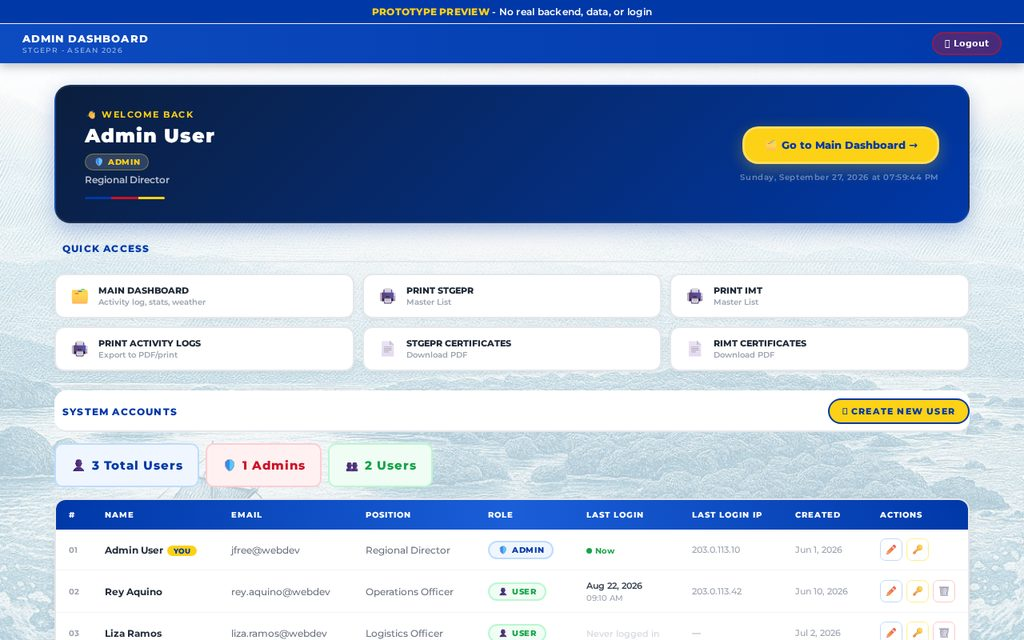
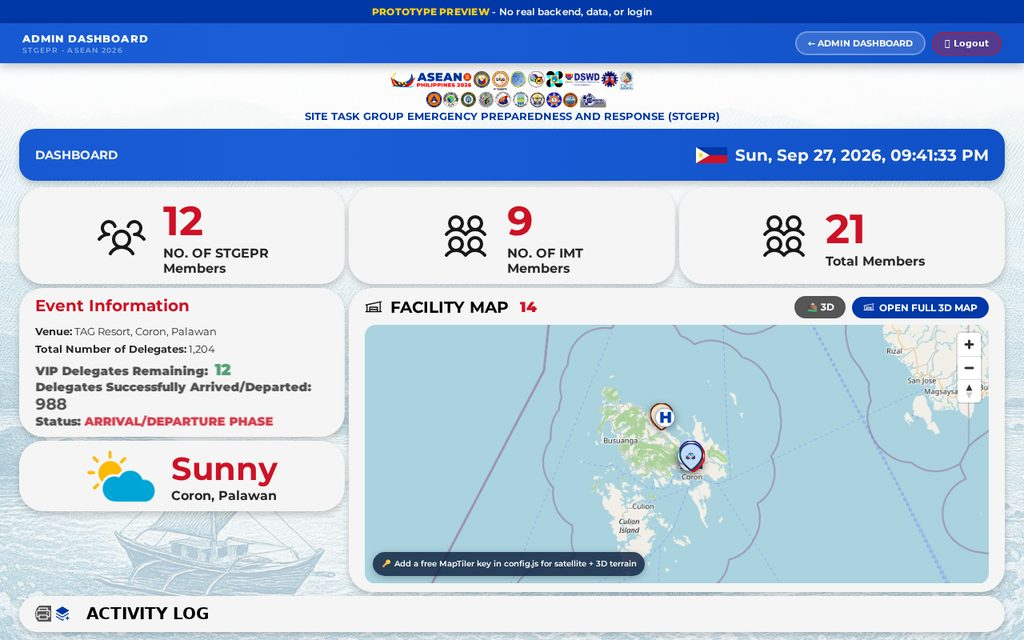
ui change

diff --git a/index.html b/index.html
@@ -404,20 +404,20 @@
     border-top: 1px solid var(--line); border-bottom: 1px solid var(--line);
     margin: 0 0 32px;
   }
+  /* 2 x 2 on mobile, one row of 4 from 640px. */
   .stat { padding: 20px 0; }
-  .stat:nth-child(2) { padding-left: 20px; border-left: 1px solid var(--line); }
-  .stat:nth-child(3) { grid-column: 1 / -1; border-top: 1px solid var(--line); }
+  .stat:nth-child(even) { padding-left: 20px; border-left: 1px solid var(--line); }
+  .stat:nth-child(n+3) { border-top: 1px solid var(--line); }
   .stat-num { display: block; font-size: 2.5rem; font-weight: 500; letter-spacing: -0.04em; line-height: 1.1; }
-  .stat-num.todo { color: var(--sub); }
   .stat-cap {
     display: block; margin-top: 6px;
     font-family: var(--mono); font-size: 11px; text-transform: uppercase; letter-spacing: .08em; color: var(--sub);
   }
   @media (min-width: 640px) {
-    .stats { grid-template-columns: repeat(3, 1fr); }
-    .stat { padding: 24px 24px; }
-    .stat:first-child { padding-left: 0; }
-    .stat:nth-child(3) { grid-column: auto; border-top: 0; border-left: 1px solid var(--line); }
+    .stats { grid-template-columns: repeat(4, 1fr); }
+    .stat, .stat:nth-child(even) { padding: 24px 20px; border-left: 1px solid var(--line); }
+    .stat:first-child { padding-left: 0; border-left: 0; }
+    .stat:nth-child(n+3) { border-top: 0; }
     .stat-num { font-size: 3rem; }
   }
 
@@ -445,9 +445,7 @@
   .gh-months { grid-auto-flow: column; height: 16px; font-family: var(--mono); font-size: 10px; color: var(--sub); }
   .gh-months span { white-space: nowrap; }
   .gh-grid { grid-template-rows: repeat(7, var(--cell)); grid-auto-flow: column; }
-  /* Light theme: black-and-white scale; dark theme: green. */
-  .gh { --gh-ink: #111111; }
-  :root[data-theme="dark"] .gh { --gh-ink: var(--accent); }
+  .gh { --gh-ink: var(--accent); }
   .gh-grid i, .gh-legend i { border-radius: 2px; background: var(--line); }
   .gh i[data-l="1"] { background: color-mix(in srgb, var(--gh-ink) 35%, var(--surface)); }
   .gh i[data-l="2"] { background: color-mix(in srgb, var(--gh-ink) 60%, var(--surface)); }
@@ -865,12 +863,12 @@
       </ol>
     </section>
 
-    <!-- Stats: first two are counted from the data in the script below. -->
+    <!-- Stats: the last two are filled in by the script (live GitHub count, tool count). -->
     <dl class="stats reveal">
-      <div class="stat"><dt class="sr-only">GitHub contributions in the last year</dt><dd style="margin:0"><span class="stat-num" data-stat="contributions">—</span><span class="stat-cap" aria-hidden="true">GitHub contributions</span></dd></div>
+      <div class="stat"><dt class="sr-only">Years in the IT industry</dt><dd style="margin:0"><span class="stat-num">13</span><span class="stat-cap" aria-hidden="true">Years in IT</span></dd></div>
+      <div class="stat"><dt class="sr-only">Years developing projects</dt><dd style="margin:0"><span class="stat-num">8</span><span class="stat-cap" aria-hidden="true">Years building</span></dd></div>
+      <div class="stat"><dt class="sr-only">GitHub contributions in the last year</dt><dd style="margin:0"><span class="stat-num" data-stat="contributions">—</span><span class="stat-cap" aria-hidden="true">Contributions</span></dd></div>
       <div class="stat"><dt class="sr-only">Tools in my stack</dt><dd style="margin:0"><span class="stat-num" data-stat="tools">15</span><span class="stat-cap" aria-hidden="true">Tools in my stack</span></dd></div>
-      <!-- TODO: replace with a real number (e.g. years of experience). -->
-      <div class="stat"><dt class="sr-only">Years building</dt><dd style="margin:0"><span class="stat-num todo">TODO</span><span class="stat-cap" aria-hidden="true">Years building</span></dd></div>
     </dl>
 
     <!-- Live GitHub contributions (rendered by initGitHub below). Falls back to a plain link. -->
@@ -1057,19 +1055,11 @@
   // ==========================================================================
   const projects = [
     {
-      title: "Google Mail — Incoming Email Automation",
-      description: "An n8n workflow that monitors a Gmail inbox every minute, logs every unread email to Google Sheets with a unique auto-generated control number, and saves any attachments to disk. A Groq LLM reads the email body and returns a structured assessment — urgency level, category, a summary, and a recommended forwarding/reply message — which is parsed and pushed instantly to Telegram via the Bot API for quick action.",
-      category: "Automation",
-      image: "assets/work-gmail",
-      stack: ["n8n", "googleworkspace", "groq", "telegram"],
-      link: ""
-    },
-    {
       title: "IIMS (Integrated Information Management System)",
       short: "IIMS",
       description: "A locally-hosted system built for use by regional government agencies with modules for weather monitoring, data tracking, and inventory management. Auto-generates PDF reports, guest logs, radio logs, and personnel records, integrated with Weather and Map APIs.",
       category: "Web",
-      image: "",
+      image: "assets/work-iims",
       stack: ["php", "laravel", "mysql", "docker"],
       link: ""
     },
@@ -1091,14 +1081,6 @@
       link: ""
     },
     {
-      title: "Cake Business Shop Management System",
-      description: "A dashboard for daily and weekly sales, stock levels, trend charts, and customer records, paired with a POS module for QR-code checkout and auto-generated receipts.",
-      category: "Web",
-      image: "assets/work-cake",
-      stack: ["php", "laravel", "mysql", "tailwind"],
-      link: "https://cake-shop-management-system-jade.vercel.app/"
-    },
-    {
       title: "DRCMS (Digital Records & Communication Management System)",
       short: "DRCMS",
       description: "Auto-logs incoming and outgoing correspondence via Gmail and a locally-hosted n8n instance. Modules for a document repository, activity calendar, auto-routing, email notifications, and predictive analytics forecasting monthly document volume.",
@@ -1108,12 +1090,28 @@
       link: ""
     },
     {
+      title: "Cake Business Shop Management System",
+      description: "A dashboard for daily and weekly sales, stock levels, trend charts, and customer records, paired with a POS module for QR-code checkout and auto-generated receipts.",
+      category: "Web",
+      image: "assets/work-cake",
+      stack: ["php", "laravel", "mysql", "tailwind"],
+      link: "https://cake-shop-management-system-jade.vercel.app/"
+    },
+    {
       title: "RAG System (Offline AI Assistant)",
       short: "RAG System",
       description: "A locally-trained AI assistant built on private, unpublished company data using Ollama with the Qwen model, keeping sensitive information fully offline.",
       category: "AI",
       image: "",
       stack: ["ollama", "qwen"],
+      link: ""
+    },
+    {
+      title: "Google Mail — Incoming Email Automation",
+      description: "An n8n workflow that monitors a Gmail inbox every minute, logs every unread email to Google Sheets with a unique auto-generated control number, and saves any attachments to disk. A Groq LLM reads the email body and returns a structured assessment — urgency level, category, a summary, and a recommended forwarding/reply message — which is parsed and pushed instantly to Telegram via the Bot API for quick action.",
+      category: "Automation",
+      image: "assets/work-gmail",
+      stack: ["n8n", "googleworkspace", "groq", "telegram"],
       link: ""
     }
   ];
@@ -1148,9 +1146,11 @@
   // (oldest first). `achievements` is optional.
   // ==========================================================================
   const JOURNEY = [
-    { year: "TODO year", title: "TODO: education / first chapter", story: "TODO: 1–2 sentences on what you studied or started doing.", achievements: ["TODO: achievement"], todo: true },
-    { year: "TODO year", title: "TODO: first role", story: "TODO: 1–2 sentences on the role and the problem you solved.", achievements: ["TODO: achievement"], todo: true },
-    { year: "TODO year", title: "TODO: current role", story: "TODO: 1–2 sentences on what you're building now.", achievements: ["TODO: achievement"], todo: true },
+    { title: "Computer Engineering Technology", story: "My undergraduate degree, and where my path into tech began.", achievements: ["TODO: school name"] },
+    { year: "Since 2015", title: "IT Focal, Office of Civil Defense MIMAROPA", story: "I look after the regional office's IT and build the systems it runs on.", achievements: [] },
+    // 2018 is counted back from "8 years building" (as of 2026).
+    { year: "2018", title: "Started building my own projects", story: "I began developing small projects, which grew into the custom systems I build today.", achievements: [] },
+    { year: "Ongoing", title: "Master in Information Technology", story: "Currently pursuing my master's degree in IT.", achievements: ["TODO: school name"] },
   ];
 
   // ==========================================================================
@@ -1166,7 +1166,7 @@
   function renderJourney() {
     document.getElementById("journeyTrack").innerHTML = JOURNEY.map((c, i) => `
       <li class="card chapter${c.todo ? " is-todo" : ""}">
-        <div class="chapter-top"><span class="num">${String(i + 1).padStart(2, "0")}</span><span>${esc(c.year)}</span></div>
+        <div class="chapter-top"><span class="num">${String(i + 1).padStart(2, "0")}</span>${c.year ? `<span>${esc(c.year)}</span>` : ""}</div>
         <h3>${esc(c.title)}</h3>
         <p>${esc(c.story)}</p>
         ${c.achievements && c.achievements.length ? `<ul>${c.achievements.map(a => `<li>${esc(a)}</li>`).join("")}</ul>` : ""}
@@ -1258,8 +1258,18 @@
       const idx = Math.min(total, Math.round(track.scrollLeft / step()) + 1);
       if (count) count.textContent = total ? `${String(idx).padStart(2, "0")} / ${String(total).padStart(2, "0")}` : "";
     };
-    if (prev) prev.addEventListener("click", () => track.scrollBy({ left: -step(), behavior: prefersReducedMotion ? "auto" : "smooth" }));
-    if (next) next.addEventListener("click", () => track.scrollBy({ left: step(), behavior: prefersReducedMotion ? "auto" : "smooth" }));
+    // Step from the card we're heading to, so quick repeated clicks don't get lost mid-scroll.
+    let target = null, settle;
+    const go = (dir) => {
+      const max = track.scrollWidth - track.clientWidth;
+      const from = target ?? Math.round(track.scrollLeft / step()) * step();
+      target = Math.max(0, Math.min(max, from + dir * step()));
+      track.scrollTo({ left: target, behavior: prefersReducedMotion ? "auto" : "smooth" });
+      clearTimeout(settle);
+      settle = setTimeout(() => { target = null; }, 700);
+    };
+    if (prev) prev.addEventListener("click", () => go(-1));
+    if (next) next.addEventListener("click", () => go(1));
     track.addEventListener("scroll", () => requestAnimationFrame(update), { passive: true });
     track.addEventListener("keydown", (e) => {
       if (e.target !== track) return;
